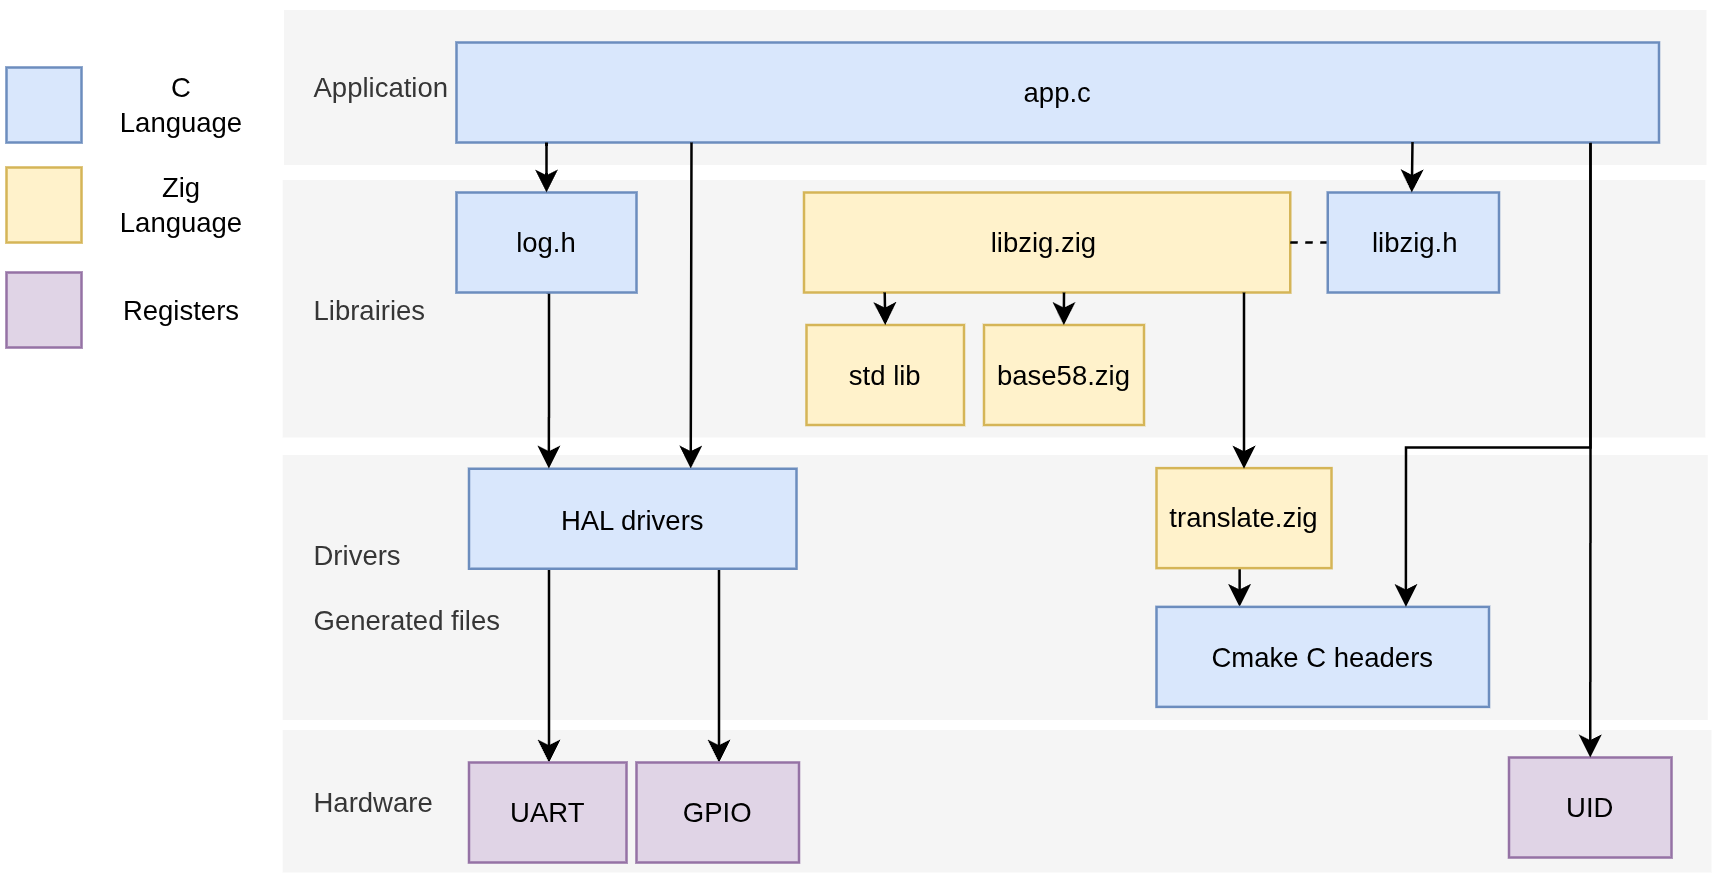
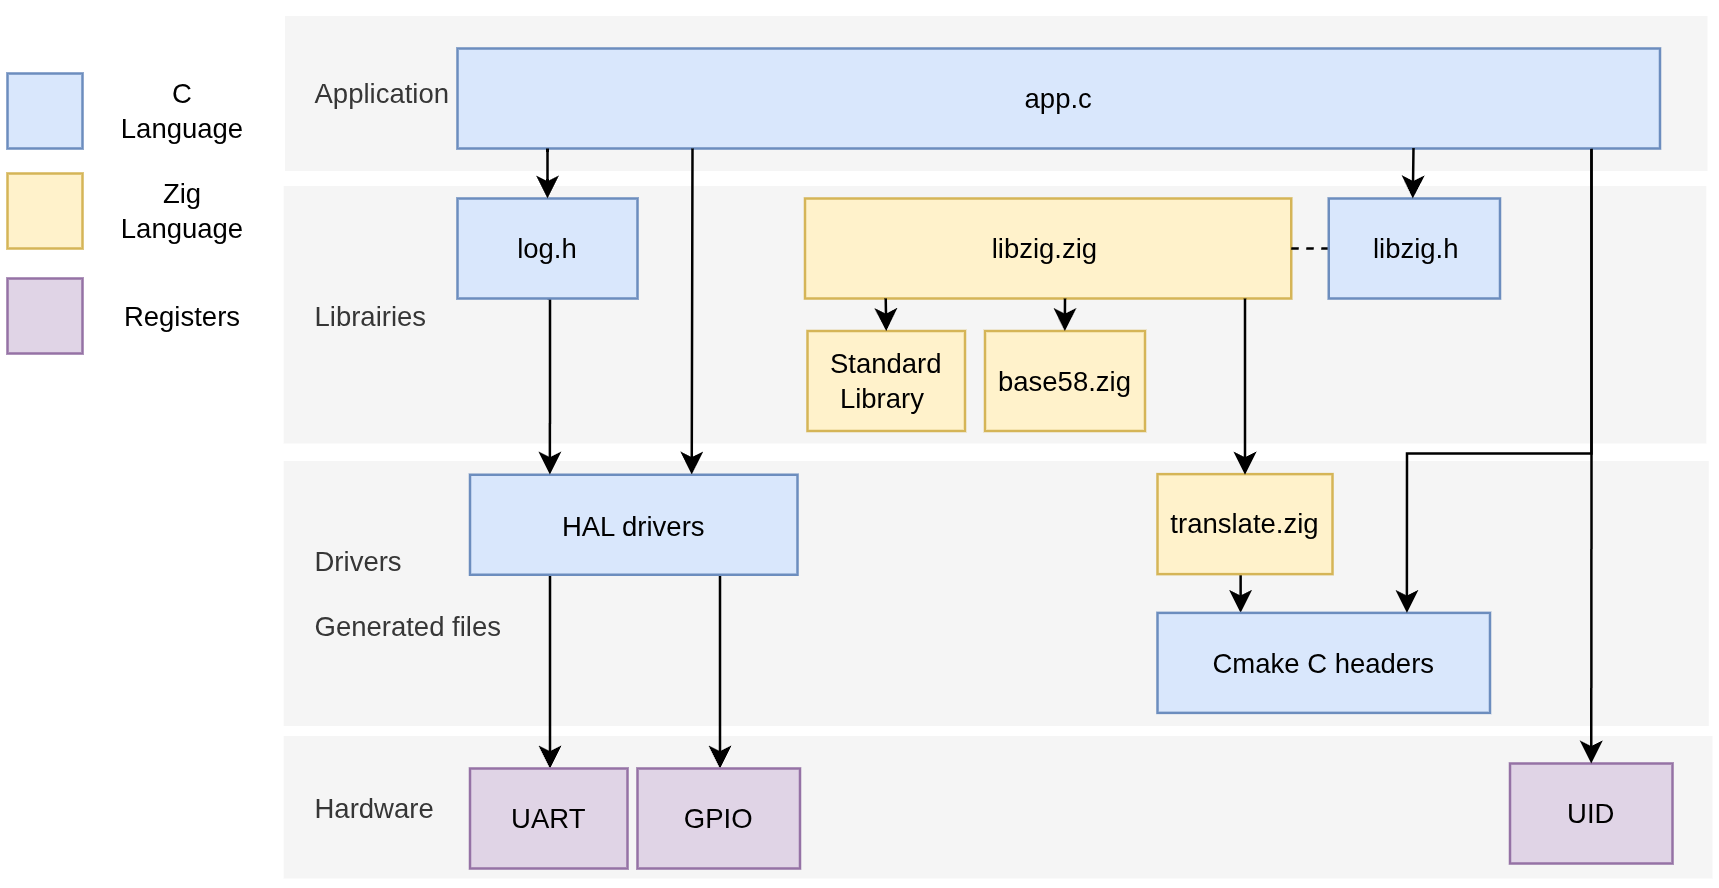
fixes: few adjustments and docs update

diff --git a/projects/stm32l476_nucleo/juicy_hello_world_cmake/src/app/app.c b/projects/stm32l476_nucleo/juicy_hello_world_cmake/src/app/app.c
@@ -106,7 +106,7 @@ void app_entrypoint(void)
         LOG("S.N (b58):    \"%s\"", serial_number_base58);
     }
     LOG();
-    LOG("Hello world !");
+    LOG("Hello, World!");
     LOG();
 
     // Blink time !

diff --git a/projects/stm32l476_nucleo/juicy_hello_world_cmake/README.md b/projects/stm32l476_nucleo/juicy_hello_world_cmake/README.md
@@ -5,12 +5,16 @@ The program starts in `Core/Src/main.c` at `int main(void)`, initializes the har
 The example prints information over UART, then continues in a loop by blinking the LED.
   
 A custom CMake module file, **`zig-module.cmake`**, adds an `add_zig_module` function that appears reasonably functional for incorporating Zig code into a CMake-based project and relies on `zig build-obj` and optional `zig translate-c`. `zig-module.cmake` automatically consumes CMake target properties to pass arguments to `zig translate-c`.
+  
+This module works with CMake generator expressions as far as I know. Some special properties that cannot be passed to `add_custom_command` need to be filtered out.
 
 ### Layered architecture dependencies
 
 <div style="text-align: center;">
 <img src="docs/architecture.png" alt="architecture" width="80%"/>
 </div>
+
+* `libzig.h` was written manually. It will probably be generated by Zig in the future.
 
 ### CMake / Zig Tree Description
 
@@ -69,17 +73,17 @@ add_zig_module(
 Before blinking indefinitely, the program prints various system and build information. Below is an example output with comments indicating the origin of each field:
 
 ```bash
- Project:      juicy_hello_world_cmake  # CMake project name (cmake_config.h)
- Project Hash: 5f8973e5                 # Zig compile-time hash of the project name
- Commit:       bc73359d                 # Generated by CMake (cmake_version.h)
- Git:          0.15.2-3-gbc73359d       # Generated by CMake (cmake_version.h)
- Compiler:     15.2.1 20251203          # Compiler macro (__VERSION__, GCC in this case)
- Build type:   Debug                    # Generated by CMake (cmake_config.h)
- S.N (96b):    002400534B42500620343431 # MCU register serial number (96-bit)
- S.N (64b):    96F812E66482CDE6         # Zig runtime hash of the 96-bit serial number
- S.N (b58):    "fc5QeAX8CHK"            # Zig runtime Base58 encoding of the 64-bit value
+Project:      juicy_hello_world_cmake  # CMake project name (cmake_config.h)
+Project Hash: 5f8973e5                 # Zig compile-time hash of the project name
+Commit:       bc73359d                 # Generated by CMake (cmake_version.h)
+Git:          0.15.2-3-gbc73359d       # Generated by CMake (cmake_version.h)
+Compiler:     15.2.1 20251203          # Compiler macro (__VERSION__, GCC in this case)
+Build type:   Debug                    # Generated by CMake (cmake_config.h)
+S.N (96b):    002400534B42500620343431 # MCU register serial number (96-bit)
+S.N (64b):    96F812E66482CDE6         # Zig runtime hash of the 96-bit serial number
+S.N (b58):    "fc5QeAX8CHK"            # Zig runtime Base58 encoding of the 64-bit value
 
- Hello world !
+Hello, World!
 ```
 
 ### Zig error type with C
@@ -96,11 +100,13 @@ pub const Error = error{
 };
 ```
 
-```bash
- Build type:   Debug
- S.N (96b):    002400534B42500620343431
- Error when encoding: BufferEmpty (-6) # Zig error printed from C application (NULL was passed to the encoding function)
+Zig error printed from the C application (`NULL` was passed to the encoding function)
 
- Hello world !
+```bash
+Build type:   Debug
+S.N (96b):    002400534B42500620343431
+Error when encoding: BufferEmpty (-6) # Zig error
+
+Hello, World!
 ```
 
